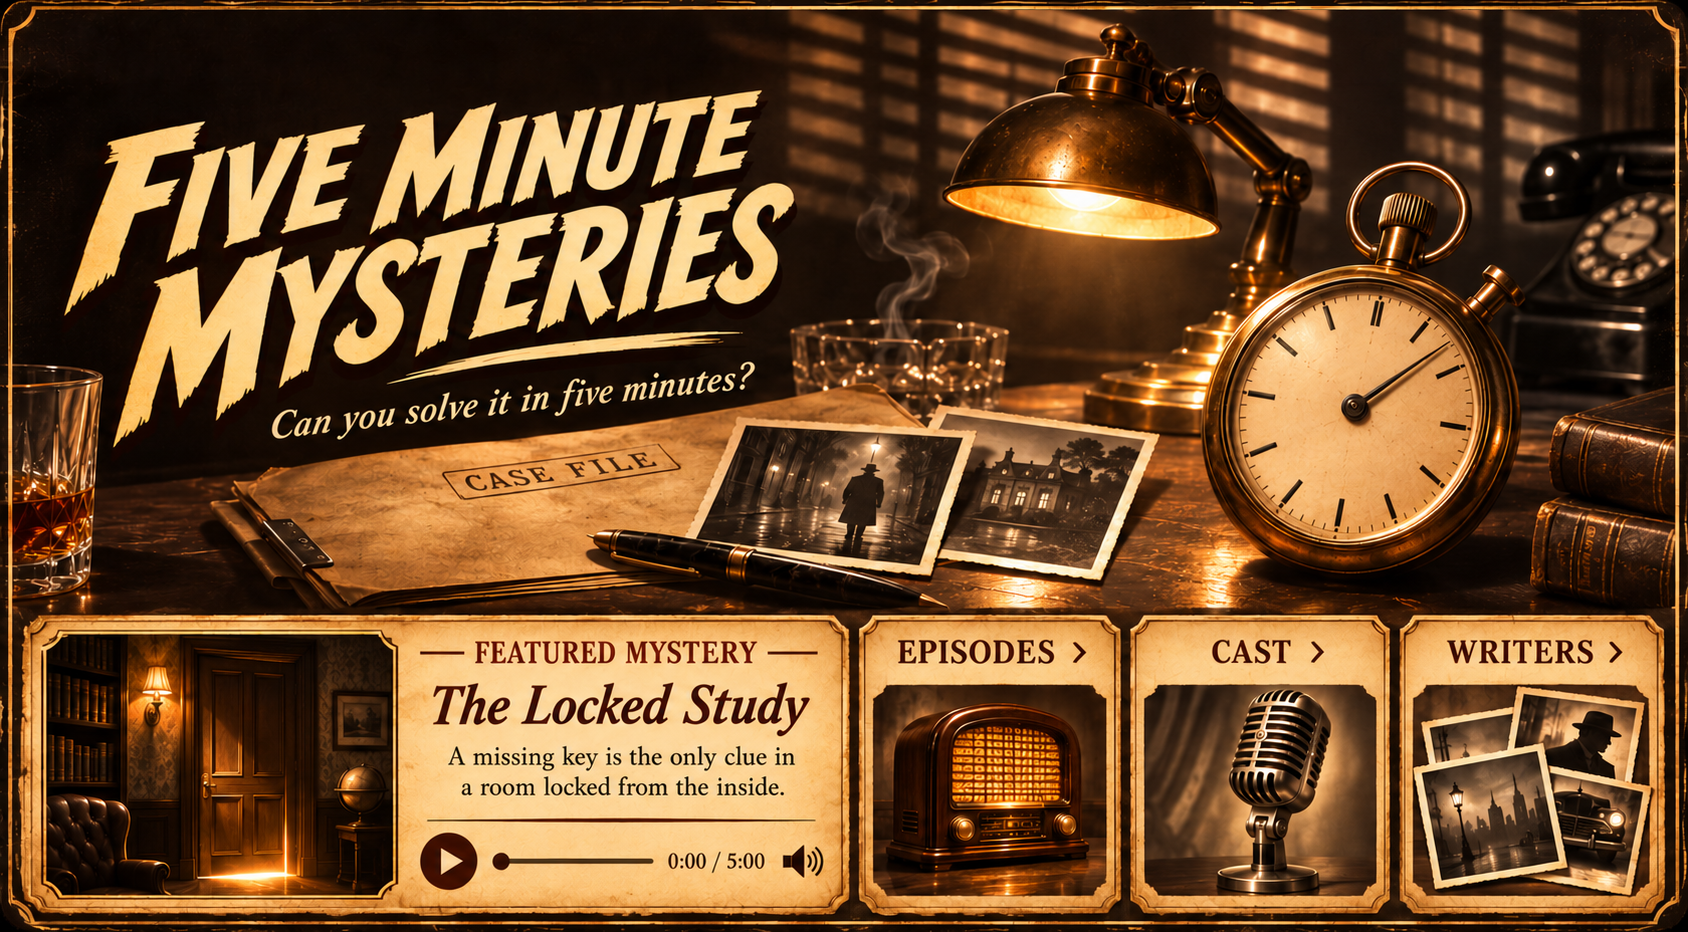
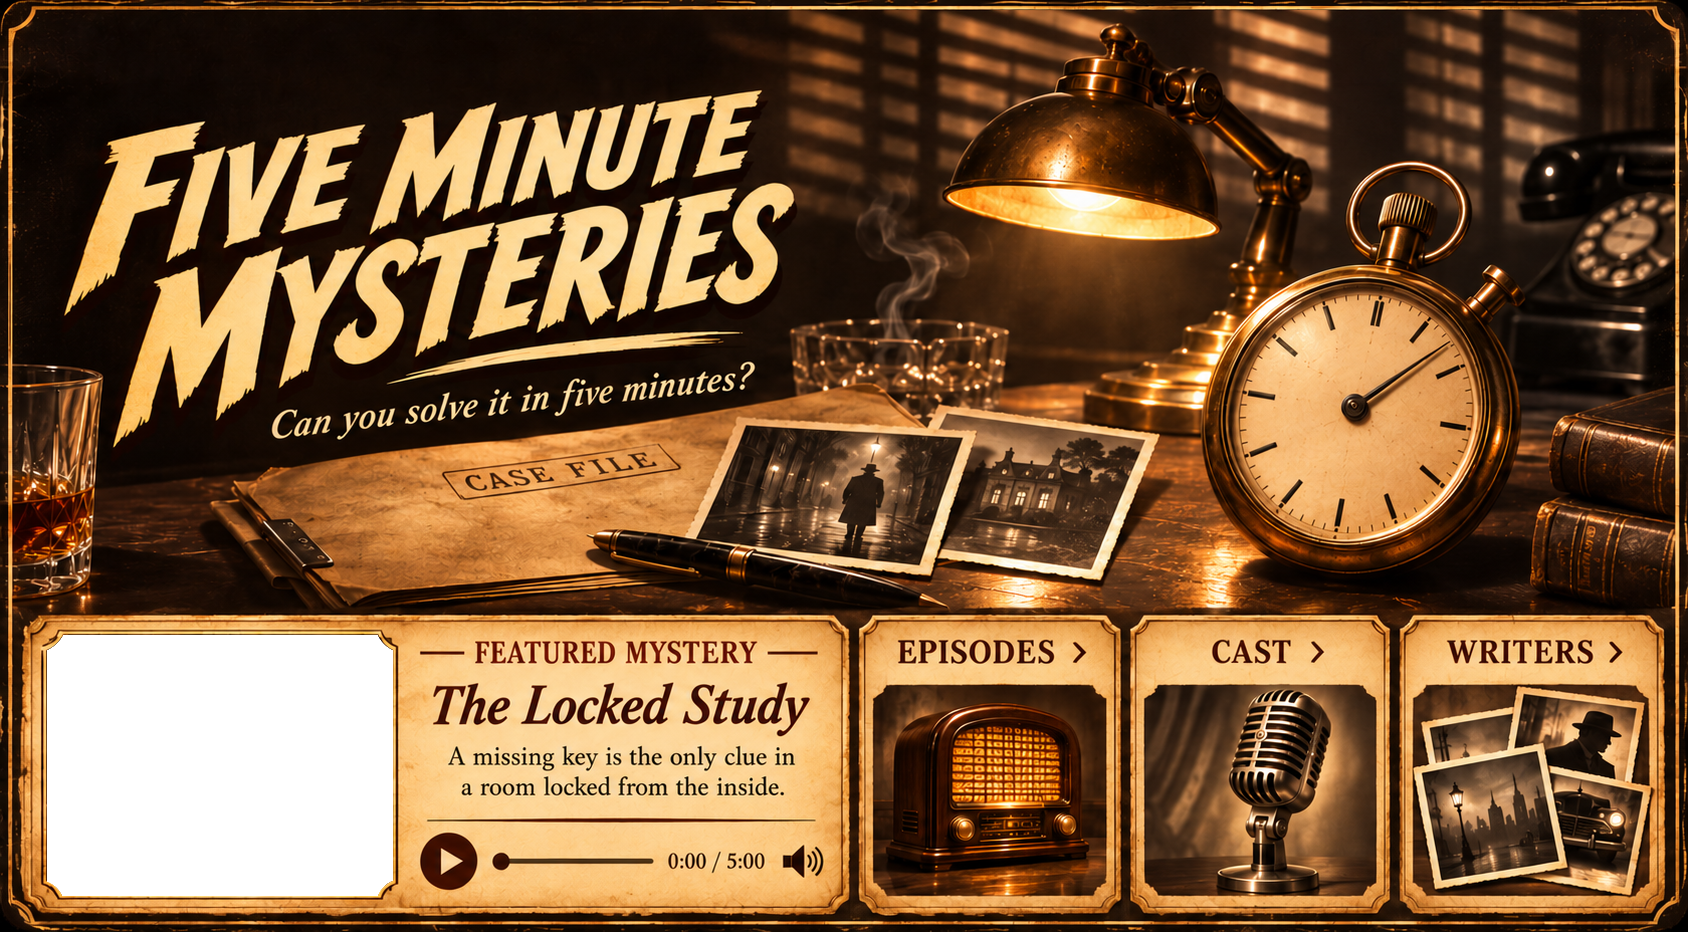
Layer Five Minute Mysteries episode artwork behind the page frame

Changed region(s): [[0.0308, 0.6534, 0.2464, 0.9646]]

diff --git a/src/pages/FiveMinuteMysteriesLanding.jsx b/src/pages/FiveMinuteMysteriesLanding.jsx
@@ -1,15 +1,26 @@
 import React from 'react';
 
+const sampleArtwork = '/art/mystery/5mm/sample.png';
+
 const cards = [
   {label: 'Episodes', path: 'episodes', left: 857, arrow: 1066},
   {label: 'Cast', path: 'cast', left: 1129, arrow: 1304},
   {label: 'Writers', path: 'writers', left: 1398, arrow: 1603},
 ];
 
-export default function FiveMinuteMysteriesLanding({slug, title}) {
+export default function FiveMinuteMysteriesLanding({slug, title, episode}) {
+  const artwork = episode?.artwork_url || episode?.image_url || episode?.image ||
+    episode?.artwork?.url || (typeof episode?.artwork === 'string' ? episode.artwork : null);
+
   return <main className="page page-landing five-minute-landing" data-page-type="landing" aria-label={title}>
-    <img className="five-minute-landing__art" src="/art/mystery/five-minute-mysteries/page.png"
-      width="1688" height="932" alt="" />
+    <div className="five-minute-landing__artwork">
+      <img className="five-minute-landing__picture" src={artwork || sampleArtwork}
+        width="348" height="263" alt="" onError={({currentTarget}) => {
+          if (currentTarget.getAttribute('src') !== sampleArtwork) currentTarget.src = sampleArtwork;
+        }} />
+      <img className="five-minute-landing__art" src="/art/mystery/five-minute-mysteries/page.png"
+        width="1688" height="932" alt="" />
+    </div>
     <div className="five-minute-landing__description">
       <h1>{title}</h1>
       <p>Can you solve it in five minutes?</p>

diff --git a/src/main.jsx b/src/main.jsx
@@ -56,7 +56,7 @@ function ShowApp(){
  const pageData=data||(route.type==='landing'?preview:{});
  let page;
  switch(route.type){
-  case 'landing':page=slug==='five-minute-mysteries'?<FiveMinuteMysteriesLanding slug={slug} title={show[0]}/>:<LandingPage slug={slug} show={show} data={pageData} historicalDate={anniversary(show[2])}/>;break;
+  case 'landing':page=slug==='five-minute-mysteries'?<FiveMinuteMysteriesLanding slug={slug} title={show[0]} episode={pageData.featured_episode}/>:<LandingPage slug={slug} show={show} data={pageData} historicalDate={anniversary(show[2])}/>;break;
   case 'episodes':page=slug==='dragnet'?<DragnetEpisodesPage data={pageData}/>:<EpisodesPage slug={slug} show={show} data={pageData}/>;break;
   case 'episodeDetail':page=<EpisodeDetailPage slug={slug} show={show} data={pageData}/>;break;
   case 'cast':page=slug==='dragnet'?<DragnetCastPage data={pageData}/>:<CastPage slug={slug} show={show} data={pageData}/>;break;

diff --git a/public/skins/five-minute-mysteries.css b/public/skins/five-minute-mysteries.css
@@ -22,11 +22,23 @@ body[data-series="five-minute-mysteries"] .site-shell:has(> .five-minute-landing
 
 .five-minute-landing__art {
   display: block;
+  position: relative;
+}
+
+.five-minute-landing__picture {
+  position: absolute;
+  top: 634px;
+  left: 46px;
+  width: 348px;
+  height: 263px;
+  object-fit: cover;
 }
 
 /* Scale the artwork and its card overlays from the same fixed top edge. */
-.five-minute-landing__art,
+.five-minute-landing__artwork,
 .five-minute-cards {
+  position: absolute;
+  inset: 0;
   height: 932px;
   transform: scaleY(calc(935 / 932));
   transform-origin: top center;
@@ -41,8 +53,6 @@ body[data-series="five-minute-mysteries"] .site-shell:has(> .five-minute-landing
 }
 
 .five-minute-cards {
-  position: absolute;
-  inset: 0;
   pointer-events: none;
 }
 
